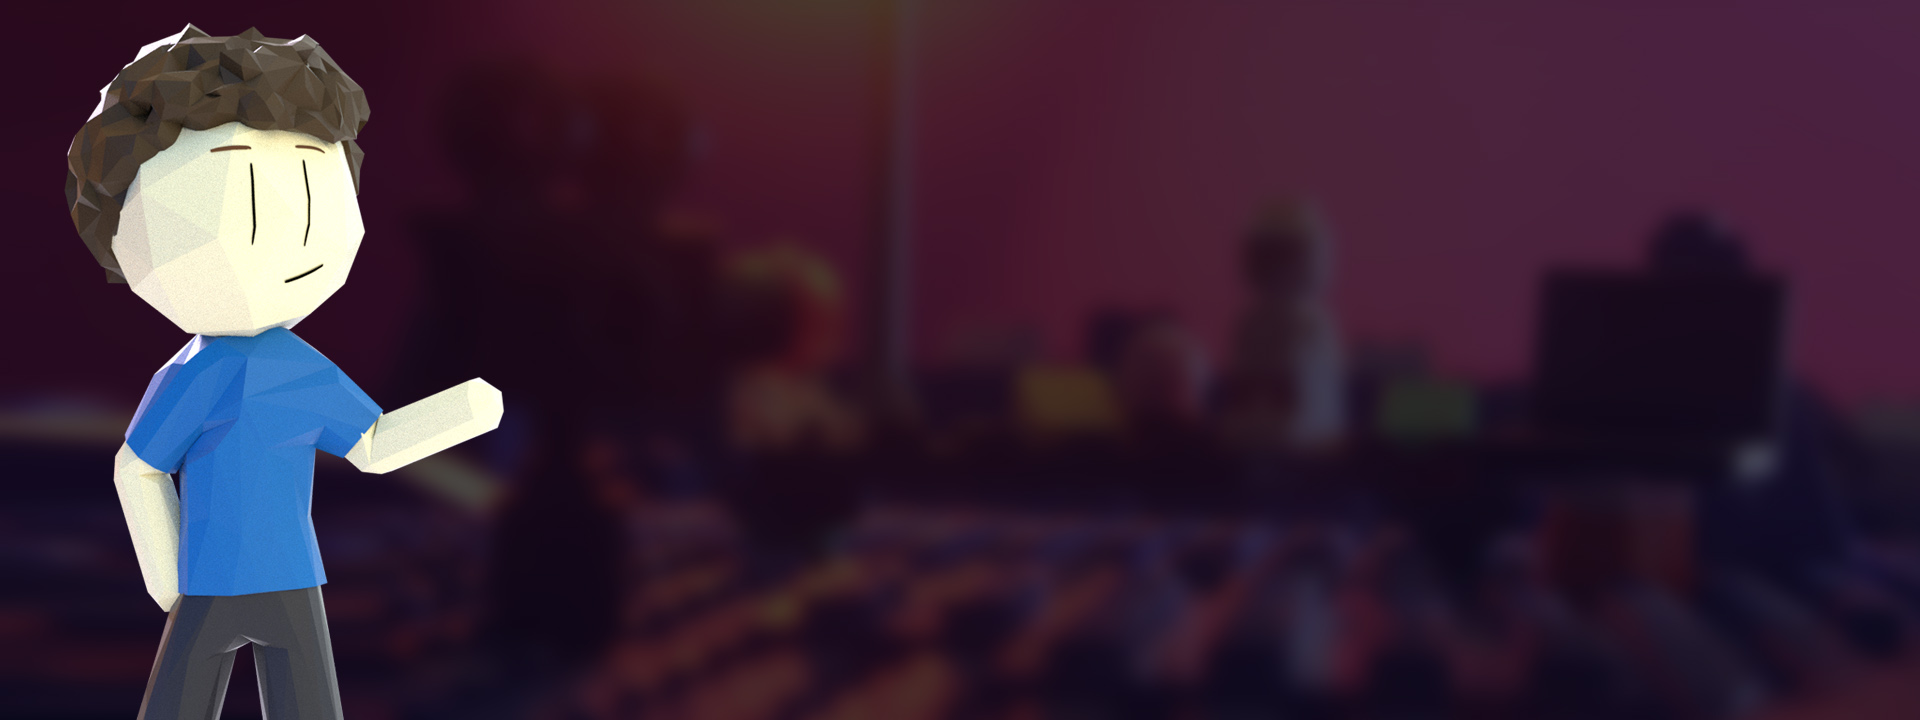
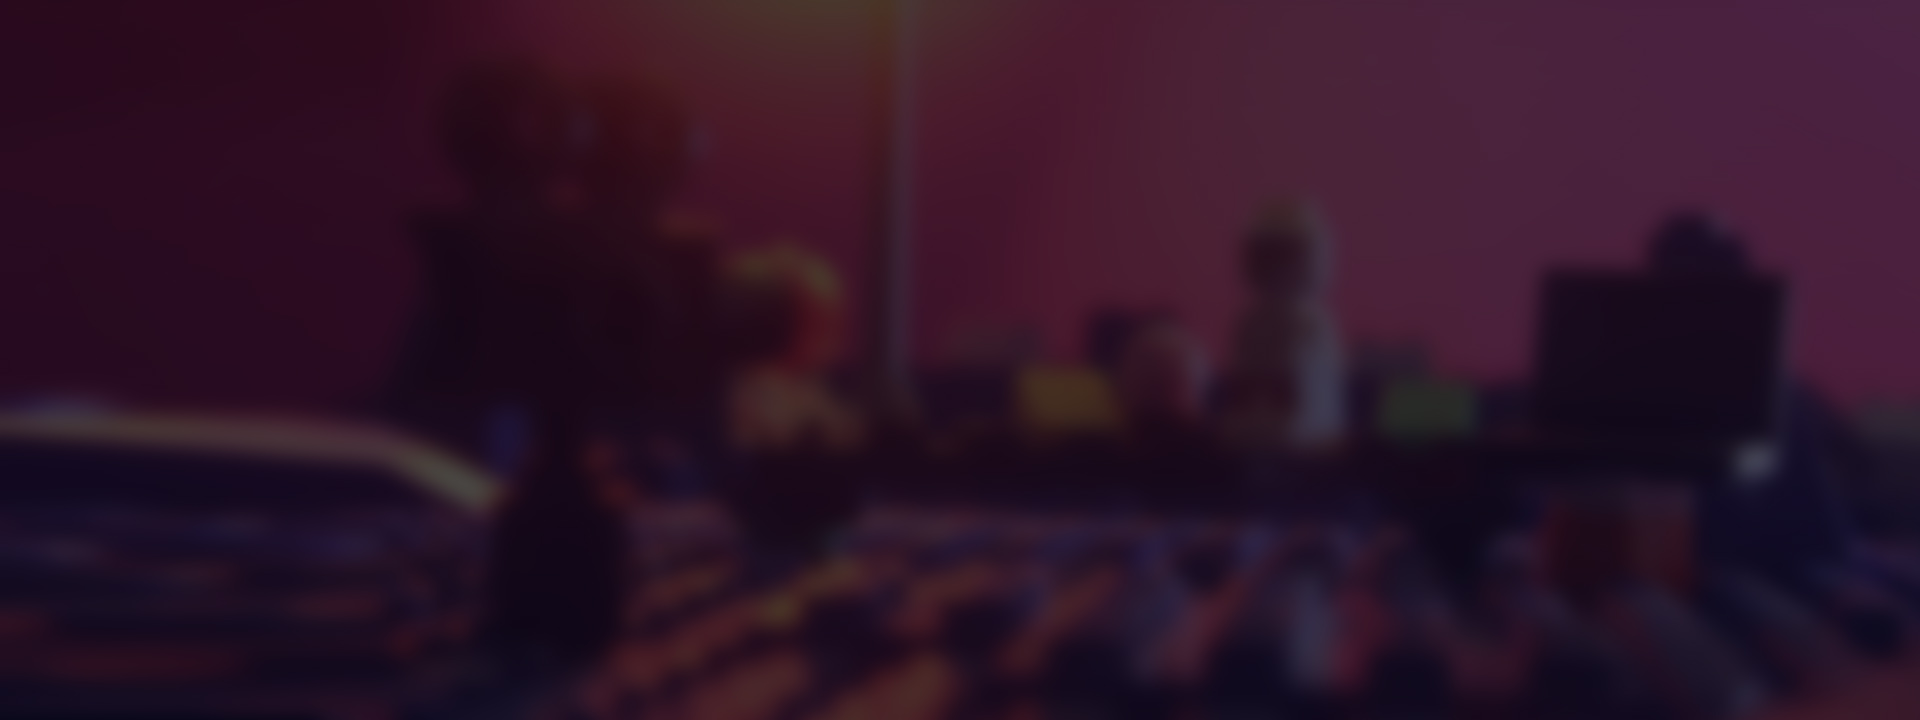
fixing lil' rio

Changed region(s): [[0.0312, 0.0306, 0.2812, 1.0]]

diff --git a/index.html b/index.html
@@ -62,6 +62,7 @@
 
       <div class="contact" id="contact">
         <h1 class="large-headers">Contact</h1>
+        <img id="lil-rio" src="images/lil-rio.png" alt="rioforce photo"/>
         <div id="about">
           <p>My name is <span class="emphasis">Benjamin Ely</span>, but I'm called rioforce on the internet.
             <br><br>I've been an animator for over <span class="emphasis">10 years</span>, and still cherrish every second at the animation desk. Telling stories fuels me, and animation just seems like the perfect medium to do that. I specialize in stop-motion animation, working with companies such as <span class="emphasis">Stikbots</span> and <span class="emphasis">Jazwares</span>, but am also skilled in CGI animation and video editing.

diff --git a/css/style.css b/css/style.css
@@ -370,8 +370,19 @@ video.fullscreen {
   border-top: 0.5em solid rgba(255, 255, 255, 0.31);
 }
 
+#lil-rio {
+  position: absolute;
+  display: inline;
+  float: left;
+  width: 25%;
+  left: 3em;
+  margin-top: 1em;
+}
+
 #about {
   font-family: "Montserrat", sans-serif;
+  float: right;
+  display: flex;
 }
 
 .contact .large-headers {
